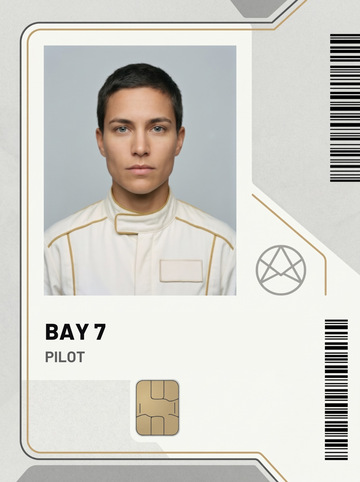
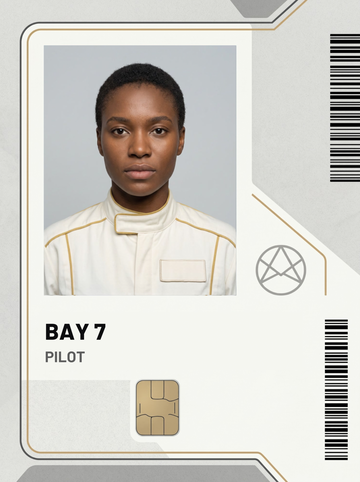
Bay plates: each crew plate shows its own face (Brandt, Imani, Sorrel from Doug's portraits; Vale from item.vale_head.glb); empty_bays film version 3; remove stray stills/ (outpost-ops#126)

Changed region(s): [[0.2444, 0.1245, 0.6722, 0.6224], [0.1222, 0.4668, 0.2444, 0.6224]]

diff --git a/packages/client/test/baypods.test.ts b/packages/client/test/baypods.test.ts
@@ -1,3 +1,4 @@
+import { createHash } from "node:crypto";
 import { existsSync, readFileSync } from "node:fs";
 import { dirname, resolve } from "node:path";
 import { fileURLToPath } from "node:url";
@@ -23,11 +24,15 @@ describe("bay pods", () => {
       expect(existsSync(resolve(root, "packages/client/public", img))).toBe(true);
     });
   });
+  it("the four badge files are different pictures (each crew member has their own face)", () => {
+    const sums = [5, 6, 7, 8].map((n) => createHash("sha1").update(readFileSync(resolve(root, `packages/client/public/scenes/badge_bay${n}.png`))).digest("hex"));
+    expect(new Set(sums).size).toBe(4);
+  });
   it("crash_log names the same four crew", () => {
     NAMES.forEach((name, i) => expect(scenes["crash_log"]!.text[`name${i + 5}`]).toBe(name));
   });
   it("both films were re-versioned", () => {
-    expect(FILM_VERSIONS.empty_bays).toBeGreaterThanOrEqual(2);
+    expect(FILM_VERSIONS.empty_bays).toBeGreaterThanOrEqual(3);
     expect(FILM_VERSIONS.crash_log).toBeGreaterThanOrEqual(2);
   });
   it.each([1, 2, 3, 4, 5])("level %i has the commander's pod plus four bay pods", (n) => {

diff --git a/packages/client/src/cinematics.ts b/packages/client/src/cinematics.ts
@@ -34,7 +34,7 @@ export const CINEMATICS: Record<VideoId, FilmInfo> = {
 };
 
 /** Bump a film's version when it is re-rendered: players who saw an older one see it again. */
-export const FILM_VERSIONS: Record<CinematicId, number> = { crash_open: 8, helmet_reveal: 2, empty_bays: 2, crash_log: 2, sela_arrival: 1, chip_handoff: 1, warlord_fall: 4 };
+export const FILM_VERSIONS: Record<CinematicId, number> = { crash_open: 8, helmet_reveal: 2, empty_bays: 3, crash_log: 2, sela_arrival: 1, chip_handoff: 1, warlord_fall: 4 };
 
 /**
  * While the story films and live scenes are being edited (Doug, 2026-11-04), every one plays on every

diff --git a/tools/cinematics/vale_portrait.py b/tools/cinematics/vale_portrait.py
@@ -1,0 +1,58 @@
+# Front-on portrait of Vale's head (item.vale_head.glb, the head revealed in the Level 5 fall) on the crew-portrait
+# grey backdrop, framed like the other bay portraits (head and suit collar, 1611x2000).
+# blender -b --factory-startup -P tools/cinematics/vale_portrait.py -- assets/portrait_vale_full.png
+import os, sys, math, bpy
+from mathutils import Vector
+
+HERE = os.path.dirname(os.path.abspath(__file__))
+out = os.path.join(HERE, sys.argv[sys.argv.index("--") + 1])
+GLB = os.path.join(HERE, "..", "..", "packages", "client", "public", "models", "item.vale_head.glb")
+
+bpy.ops.wm.read_factory_settings(use_empty=True)
+sc = bpy.context.scene
+sc.render.engine = "BLENDER_EEVEE"
+sc.render.resolution_x, sc.render.resolution_y = 1611, 2000
+sc.view_settings.view_transform = "Standard"
+bpy.ops.import_scene.gltf(filepath=GLB)
+objs = [o for o in bpy.context.scene.objects if o.type == "MESH"]
+pts = [o.matrix_world @ Vector(c) for o in objs for c in o.bound_box]
+lo = Vector((min(p.x for p in pts), min(p.y for p in pts), min(p.z for p in pts)))
+hi = Vector((max(p.x for p in pts), max(p.y for p in pts), max(p.z for p in pts)))
+ctr, size = (lo + hi) / 2, hi - lo
+print("BOUNDS", tuple(lo), tuple(hi))
+h = size.z
+
+# plain cream suit under the head (collar + shoulders), like the other crew portraits; the face is the model's alone
+cream = bpy.data.materials.new("cream"); cream.use_nodes = True
+cream.node_tree.nodes["Principled BSDF"].inputs["Base Color"].default_value = (0.5, 0.46, 0.36, 1)
+cream.node_tree.nodes["Principled BSDF"].inputs["Roughness"].default_value = 0.9
+bpy.ops.mesh.primitive_uv_sphere_add(radius=1, location=(ctr.x, ctr.y, -0.14), segments=48, ring_count=24)
+sh = bpy.context.object; sh.scale = (0.21, 0.09, 0.14); sh.data.materials.append(cream)
+bpy.ops.mesh.primitive_cylinder_add(radius=0.058, depth=0.07, location=(ctr.x, ctr.y + 0.005, -0.015), vertices=48)
+co = bpy.context.object; co.data.materials.append(cream)
+
+# the glTF importer is Y-up converted to Z-up, so the head's front is usually -Y; camera looks from -Y at +Y
+w = bpy.data.worlds.new("w"); sc.world = w
+w.use_nodes = True
+bg = w.node_tree.nodes["Background"]
+bg.inputs["Color"].default_value = (0.55, 0.57, 0.6, 1); bg.inputs["Strength"].default_value = 1.0
+
+cam = bpy.data.objects.new("cam", bpy.data.cameras.new("cam"))
+sc.collection.objects.link(cam)
+cam.data.type = "ORTHO"
+o = h * 1.67  # like the photos: crown at 7% of the frame, chin at about 62%
+cam.data.ortho_scale = o
+cam.location = (ctr.x, ctr.y - 5 * h, hi.z + 0.07 * o - o / 2)
+cam.rotation_euler = (math.radians(90), 0, 0)
+sc.camera = cam
+
+def sun(rot, e):
+    s = bpy.data.objects.new("s", bpy.data.lights.new("s", "SUN"))
+    s.data.energy = e
+    s.rotation_euler = tuple(math.radians(v) for v in rot)
+    sc.collection.objects.link(s)
+sun((60, 0, 20), 2.5)
+sun((70, 0, -60), 1.2)
+sc.render.filepath = out
+bpy.ops.render.render(write_still=True)
+print("wrote", out)

diff --git a/tools/cinematics/badge.py b/tools/cinematics/badge.py
@@ -65,6 +65,16 @@ cover = bpy.context.object
 cover.scale = (bx - ax, ay - by, 1)
 cover.data.materials.append(flat("cover", color=bg))
 
+# Optional 4th arg: a portrait already cropped to PHOTO's aspect (796x1036), pasted over the card's photo.
+PHOTO = (182, 188, 978, 1224)
+if len(args) > 3:
+    pimg = bpy.data.images.load(os.path.join(HERE, args[3]))
+    (px0, py0), (px1, py1) = world(PHOTO[0], PHOTO[1]), world(PHOTO[2], PHOTO[3])
+    bpy.ops.mesh.primitive_plane_add(size=1, location=((px0 + px1) / 2, (py0 + py1) / 2, 0.005))
+    ph = bpy.context.object
+    ph.scale = (px1 - px0, py0 - py1, 1)
+    ph.data.materials.append(flat("portrait", image=pimg))
+
 def text(body, at, size_px, font, color):
     bpy.ops.object.text_add(location=(*world(*at), 0.02))
     t = bpy.context.object
